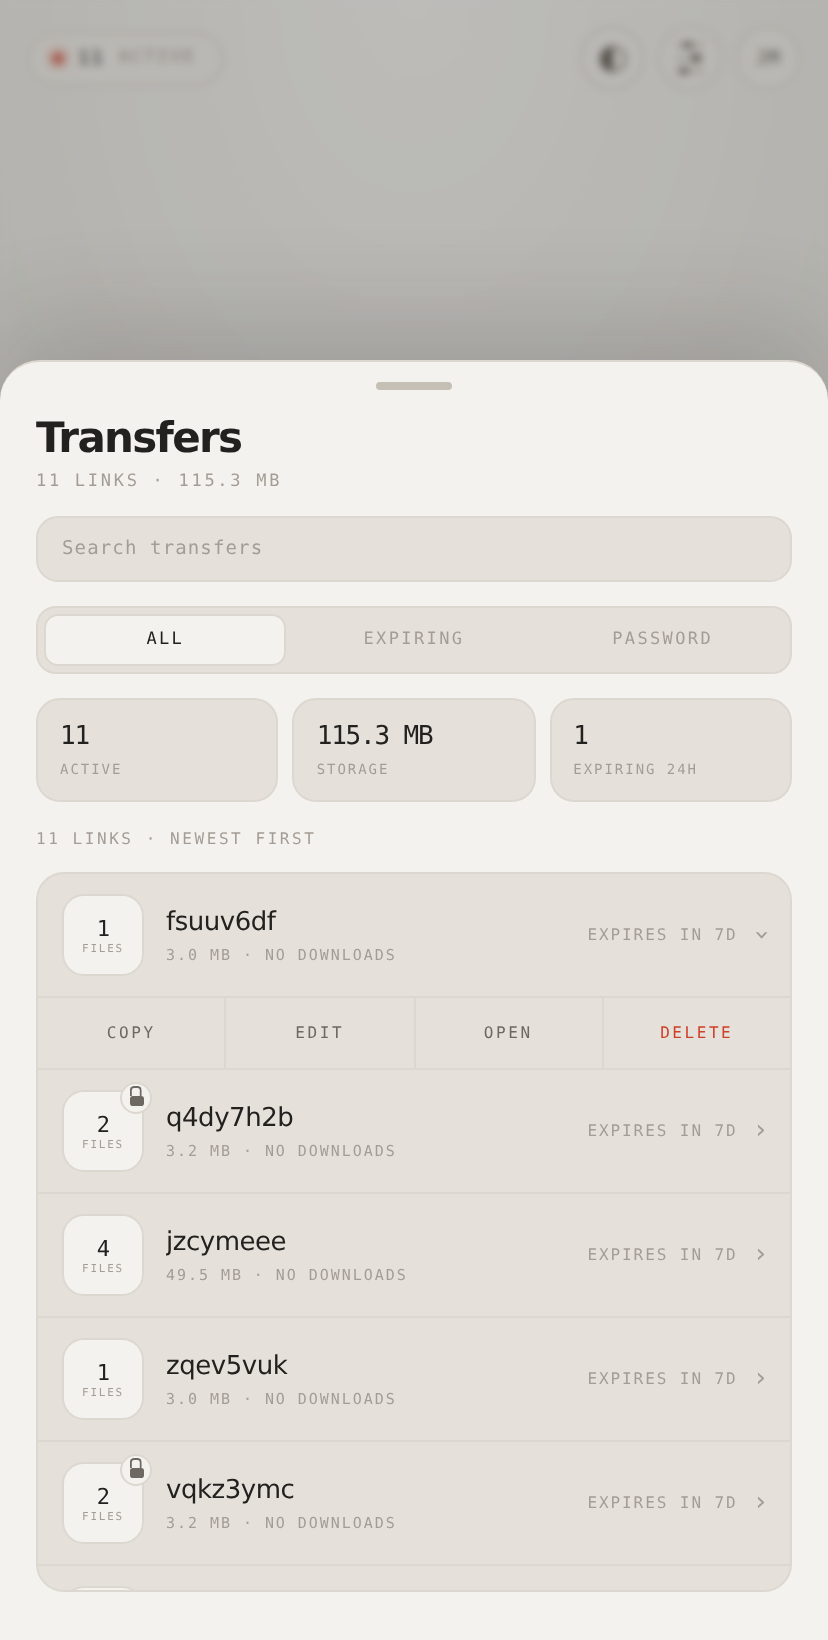
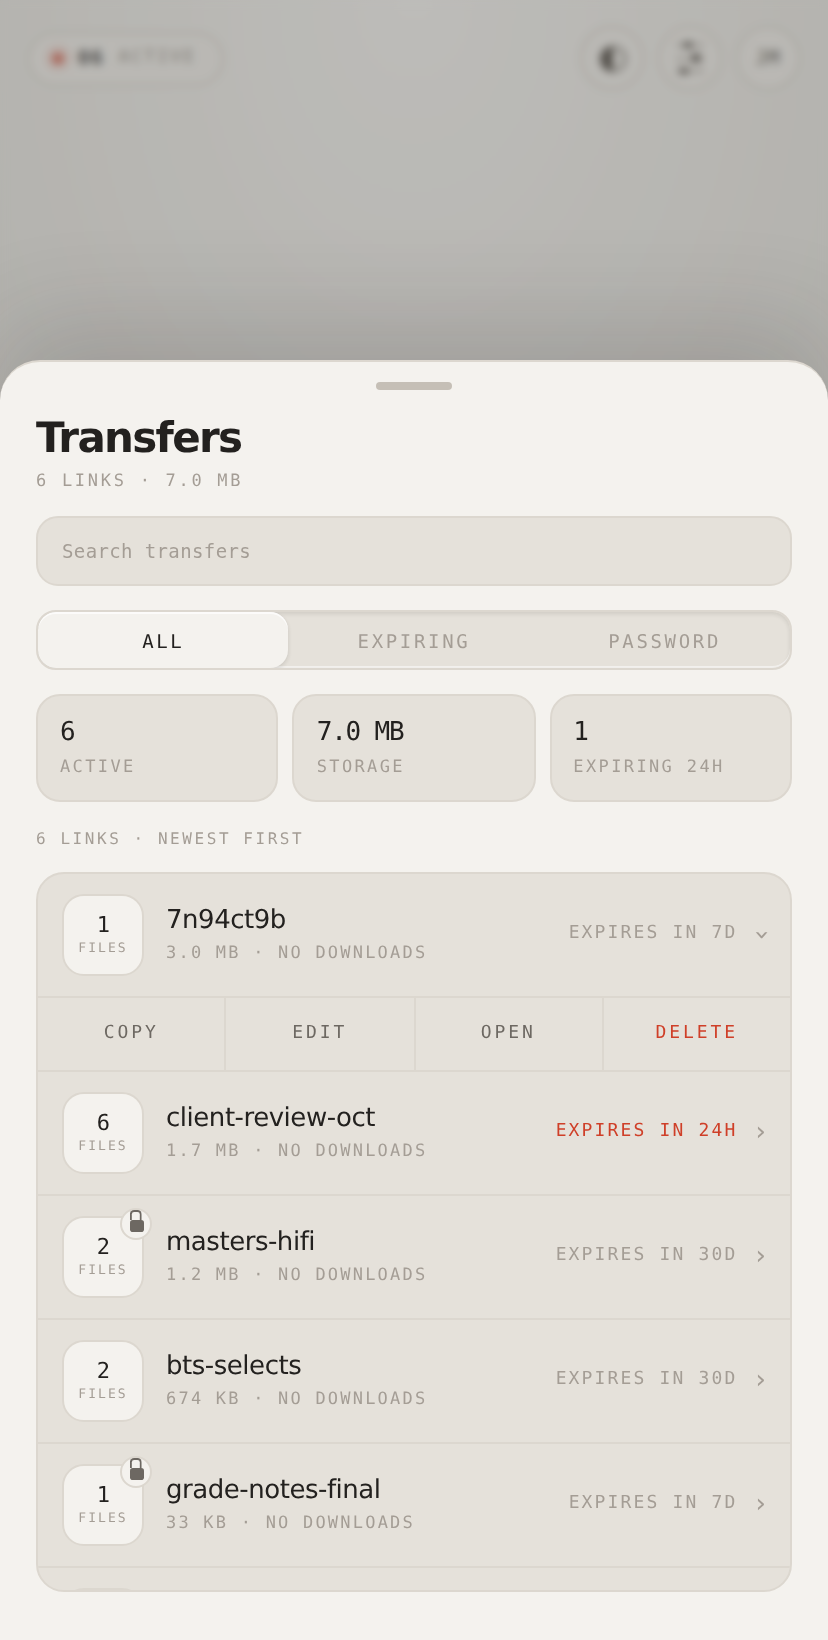
Treat the phone as a first-class place to use this
Three things were wrong on a phone, and one of them was a real bug.

Tapping any field zoomed the whole page in and never zoomed back out.
iOS Safari does that to every input set below 16px, and every mono field
here is 10.5px — so on a phone every tap on the link or the password
left the device blown up and off-centre. There is no way to opt out of
the behaviour short of disabling pinch-zoom for everyone, which is not a
fix, it is taking zoom away from the people most likely to need it. The
fields meet iOS at its number instead.

The rest of the mono type goes up a step with them. These sizes were set
at arm's length on a desktop, where 7px tracked out is a label and reads
as texture; held twelve inches from your face on a bus it is just small.
None of it is decorative — the countdown, the size, the four row actions
and the drawer's labels are the whole reason anyone opens either surface.
A step, not a redesign: the ratio between them is what makes the drawer
read as one object rather than a stack of unrelated controls, so they
move together or not at all.

Settings were a 268px card pinned to the top-right corner — a desktop
shape, assuming a pointer that arrived from the button, putting every
control at the far end of the screen from the thumb holding the phone.
On a phone they are a sheet now, with the same grab handle the transfers
sheet already has: one vocabulary for a surface arriving, not two.
[…]

diff --git a/web/src/styles/controls.css b/web/src/styles/controls.css
@@ -251,6 +251,26 @@
   appearance: none;
 }
 
+/*
+ * iOS Safari zooms the whole page in whenever a field it is focusing is set
+ * below 16px, and does not zoom back out when the field is left. Every mono
+ * field here is 10.5px, so on a phone every tap on the link or the password
+ * left the device blown up and off-centre — which is what "the zoom is wrong"
+ * turns out to mean. There is no way to opt out of the behaviour short of
+ * disabling pinch-zoom for everybody, so the field meets it at its number.
+ *
+ * It reads well at this size anyway: the drawer's fields hold a slug and a
+ * password, which are the two things on a phone you most want to be able to
+ * check without leaning in.
+ */
+@media (max-width: 640px) {
+  .fret-field {
+    font-size: 16px;
+    letter-spacing: 0.02em;
+    padding: 11px 12px;
+  }
+}
+
 .fret-field:focus {
   outline: none;
   border-color: var(--fg3);
@@ -377,6 +397,38 @@
   outline-offset: -3px;
 }
 
+/*
+ * The mono type, one step up on a phone.
+ *
+ * These sizes were set at arm's length on a desktop, where 7px tracked out is
+ * a label and reads as texture. Held twelve inches from your face on a bus it
+ * is just small. Nothing here is decorative — every one of them is a word you
+ * are expected to act on — so on a narrow screen they each go up a step.
+ *
+ * A step, not a redesign: the ratio between them is what makes the drawer
+ * read as one object with a hierarchy rather than a stack of unrelated
+ * controls, and that survives only if they all move together.
+ */
+@media (max-width: 640px) {
+  .fret-row__label,
+  .fret-popover__stackLabel {
+    font-size: 9px;
+  }
+
+  .fret-field__action {
+    font-size: 8px;
+  }
+
+  .fret-segmented__item {
+    font-size: 9.5px;
+    padding: 9px 4px;
+  }
+
+  .fret-tray__mark {
+    font-size: 7px;
+  }
+}
+
 /* ---------- popover ---------- */
 
 .fret-popover {
@@ -391,6 +443,66 @@
   box-shadow: var(--lift);
   padding: 14px;
   animation: fretPop var(--durFast) var(--easeOut) both;
+}
+
+/* Desktop: neither of these exists. The popover hangs off its button. */
+.fret-popover__scrim,
+.fret-popover__grab {
+  display: none;
+}
+
+/*
+ * On a phone the settings are a sheet.
+ *
+ * A 268px card pinned to the top-right corner is a desktop shape: it assumes
+ * a pointer that arrived from the button, and it puts every control at the
+ * far end of the screen from the thumb holding the phone. The same content
+ * arriving from the bottom edge is reachable, and it is how the transfers
+ * sheet already behaves — one vocabulary for "a surface came up", not two.
+ */
+@media (max-width: 640px) {
+  .fret-popover__scrim {
+    display: block;
+    position: fixed;
+    inset: 0;
+    z-index: 39;
+    background: var(--scrim);
+    animation: fretFade var(--durFast) ease both;
+  }
+
+  .fret-popover {
+    position: fixed;
+    inset: auto 0 0 0;
+    width: auto;
+    max-height: 82dvh;
+    overflow-y: auto;
+    border-radius: 20px 20px 0 0;
+    border-bottom: none;
+    /* The home indicator sits over the last row otherwise. */
+    padding: 0 16px calc(16px + env(safe-area-inset-bottom, 0px));
+    box-shadow: var(--shUp);
+    animation: fretSheetUp var(--durSheet) var(--easeOut) both;
+  }
+
+  /* The transfers sheet's handle, at the same size and in the same place. */
+  .fret-popover__grab {
+    display: flex;
+    align-items: center;
+    justify-content: center;
+    padding: 10px 0 6px;
+    position: sticky;
+    top: 0;
+    background: var(--body);
+    z-index: 1;
+  }
+
+  .fret-popover__grab::before {
+    content: '';
+    width: 38px;
+    height: 4px;
+    border-radius: 999px;
+    background: var(--edge2);
+  }
 }
 
 .fret-popover__row {

diff --git a/web/src/components/TopBar.tsx b/web/src/components/TopBar.tsx
@@ -125,7 +125,20 @@ export function TopBar({
         </button>
 
         {menu === 'settings' && (
-          <SettingsPopover me={me} locale={locale} onUpdateMe={onUpdateMe} />
+          <>
+            {/*
+              The scrim only exists on a phone, where the settings are a sheet
+              rather than a card hanging off the button that opened them. On a
+              desktop a popover that dimmed the whole page to show three
+              segmented controls would be shouting.
+            */}
+            <div
+              className="fret-popover__scrim"
+              onClick={() => setMenu(null)}
+              aria-hidden="true"
+            />
+            <SettingsPopover me={me} locale={locale} onUpdateMe={onUpdateMe} />
+          </>
         )}
       </div>
     </div>
@@ -185,6 +198,13 @@ function SettingsPopover({
 
   return (
     <div className="fret-popover" style={{ opacity: saving ? 0.7 : 1 }}>
+      {/*
+        Only drawn at phone widths, where this is a sheet: the same grab bar
+        the transfers sheet wears, because they arrive the same way and a
+        thumb should not have to learn two vocabularies for it.
+      */}
+      <div className="fret-popover__grab" aria-hidden="true" />
+
       <div className="fret-popover__stack">
         <div className="fret-popover__stackLabel">{t('prefs.theme')}</div>
         <Segmented<Theme>

diff --git a/web/src/styles/base.css b/web/src/styles/base.css
@@ -16,6 +16,24 @@ body {
   overflow-x: hidden;
 }
 
+/*
+ * Kills the wait a touch browser puts before every tap while it decides
+ * whether a second one is coming, which is what makes a phone feel a beat
+ * behind a desktop.
+ *
+ * Deliberately not user-scalable=no on the viewport, which would have the
+ * same effect on the delay and also take pinch-zoom away from everyone who
+ * needs it. Nothing here is too small to want a closer look at.
+ */
+button,
+a,
+label,
+.fret-row__main,
+.fret-rowaction,
+.fret-segmented__item {
+  touch-action: manipulation;
+}
+
 button,
 input {
   font-family: inherit;

diff --git a/web/src/styles/sheet.css b/web/src/styles/sheet.css
@@ -710,3 +710,25 @@
   background: var(--body);
   color: var(--fg);
 }
+
+/*
+ * The sheet's own mono type, lifted on a phone for the same reason as the
+ * drawer's: these are the countdown, the size, the download count and the
+ * four row actions — the whole reason anyone opens this list — and at 5.5px a
+ * tile's unit is a smudge rather than a word.
+ */
+@media (max-width: 640px) {
+  .fret-row__meta,
+  .fret-stat__label {
+    font-size: 8.5px;
+  }
+
+  .fret-row__countdown,
+  .fret-rowaction {
+    font-size: 9px;
+  }
+
+  .fret-tile__unit {
+    font-size: 6.5px;
+  }
+}

diff --git a/web/src/styles/tokens.css b/web/src/styles/tokens.css
@@ -172,6 +172,10 @@
   from { opacity: 0; transform: translate(-50%, -50%) scale(0.96); }
   to { opacity: 1; transform: translate(-50%, -50%) scale(1); }
 }
+@keyframes fretFade {
+  from { opacity: 0; }
+  to { opacity: 1; }
+}
 @keyframes fretSheetUp {
   from { transform: translateY(100%); }
   to { transform: none; }

diff --git a/README.md b/README.md
@@ -176,14 +176,23 @@ the filenames, not the size, not the sender.
 
 ### On a phone
 
-The sheet arrives from the bottom with a grab handle instead of a close button,
-because that is what a thumb reaches for. The options drawer runs the full width
-of the device at phone size, where an inset either side would be a visible slice
-of the screen rather than a detail.
+Sheets arrive from the bottom with a grab handle instead of a close button,
+because that is what a thumb reaches for — the transfers list and the settings
+both, so there is one vocabulary for "a surface came up" rather than two. The
+options drawer runs the full width of the device at phone size, where an inset
+either side would be a visible slice of the screen rather than a detail.
+
+The mono type goes up a step throughout. These sizes were set at arm's length
+on a desktop, where 7px tracked out reads as texture; held twelve inches from
+your face it is just small, and none of it is decorative. Text fields meet iOS
+at 16px, below which Safari zooms the whole page in on focus and never zooms
+back out. Pinch-zoom is left alone — the fix for a bad zoom is not taking zoom
+away.
 
 <p align="center">
-  <img src="docs/screenshots/mobile-sheet.png" alt="The transfers sheet on mobile" width="320">
-  <img src="docs/screenshots/mobile-tray.png" alt="The options drawer on mobile" width="320">
+  <img src="docs/screenshots/mobile-sheet.png" alt="The transfers sheet on mobile" width="266">
+  <img src="docs/screenshots/mobile-tray.png" alt="The options drawer on mobile" width="266">
+  <img src="docs/screenshots/mobile-settings.png" alt="Settings on mobile" width="266">
 </p>
 
 ---
